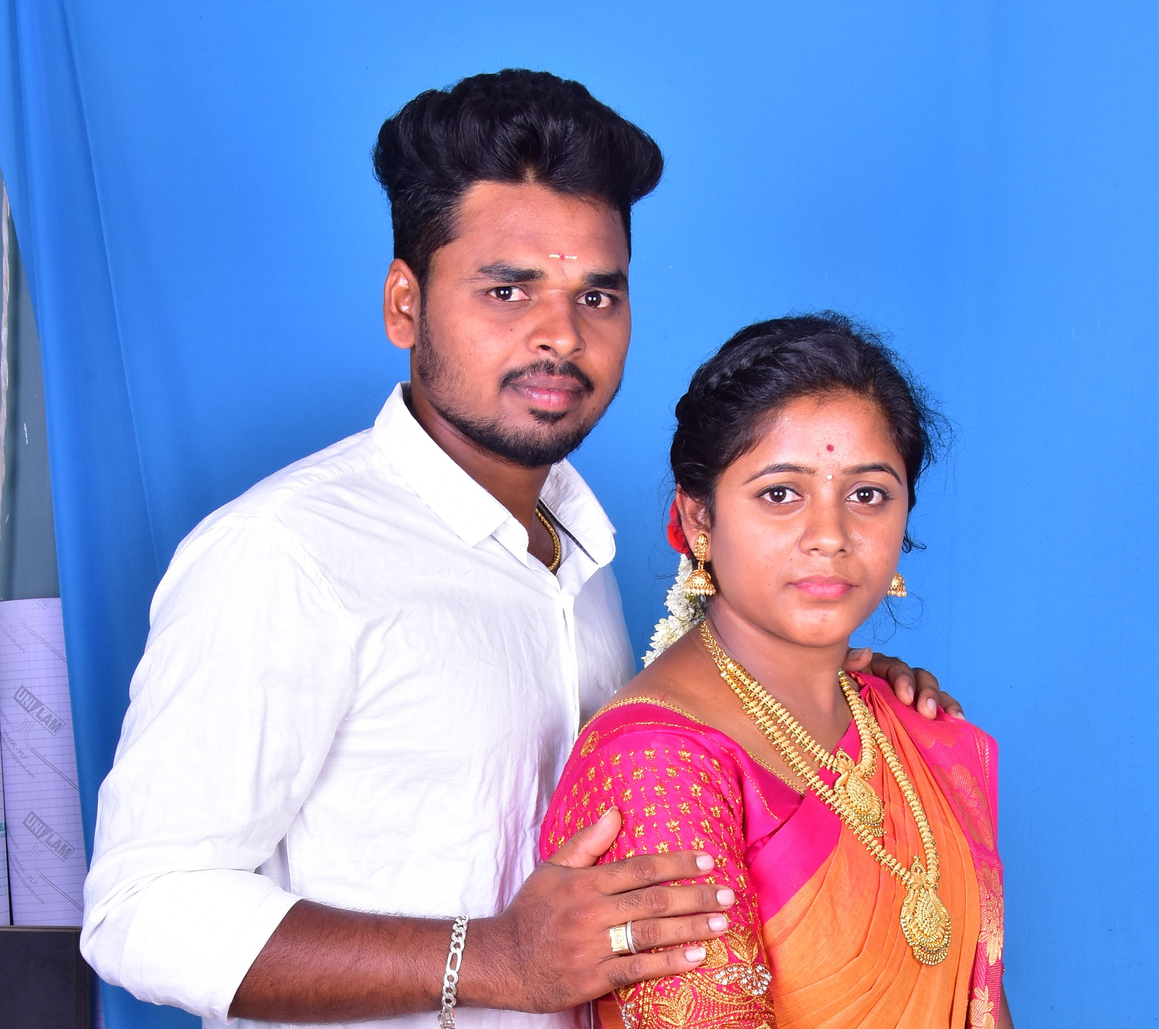
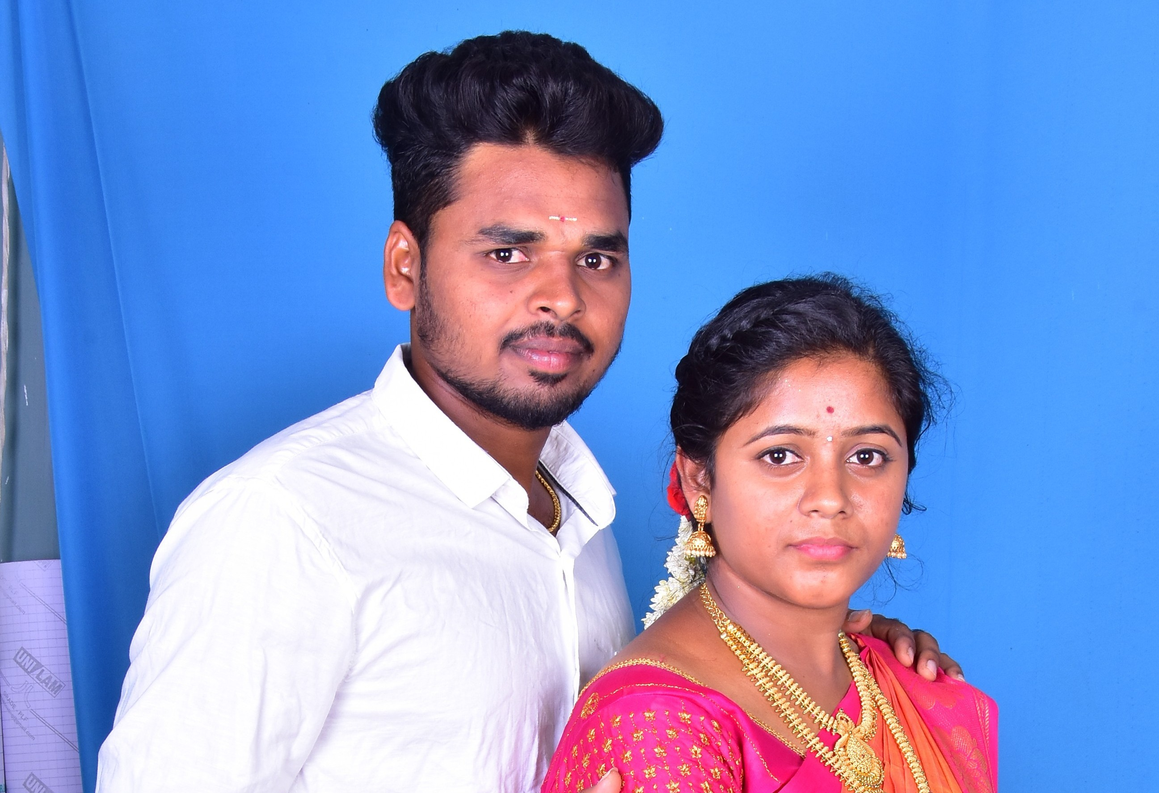
image changes

diff --git a/frontend/src/components/FamilyIntro.tsx b/frontend/src/components/FamilyIntro.tsx
@@ -9,14 +9,20 @@ const textVariants = {
   }),
 };
 
-const photoList = [
+const photoList1 = [
   "/assets/family/family11.jpg",
   "/assets/group/group1.jpg",
-  "/assets/couple/bride6.jpg",
-  "/assets/group/group2.jpg",
+  "/assets/family/family1.jpg",
+  "/assets/couple/bride5.jpg",
   "/assets/couple/groom1.jpg",
-  "/assets/group/group3.jpg",
+];
+
+const photoList2 = [
+  "/assets/group/group2.jpg",
   "/assets/couple/bride3.jpg",
+  "/assets/group/group3.jpg",
+  "/assets/family/family11.jpg",
+  "/assets/family/family15.jpg",
 ];
 
 const FamilyIntro = () => {
@@ -87,7 +93,7 @@ const FamilyIntro = () => {
           viewport={{ once: true }}
         >
           <img
-            src="/assets/couple/groom1.jpg"
+            src="/assets/couple/groom7.jpg"
             alt="Groom"
             className="w-28 h-28 mx-auto rounded-full object-cover border-4 border-white shadow-lg mb-4"
           />
@@ -129,7 +135,7 @@ const FamilyIntro = () => {
           viewport={{ once: true }}
         >
           <img
-            src="/assets/couple/bride3.jpg"
+            src="/assets/couple/bride5.jpg"
             alt="Bride"
             className="w-28 h-28 mx-auto rounded-full object-cover border-4 border-white shadow-lg mb-4"
           />
@@ -185,7 +191,7 @@ const FamilyIntro = () => {
             animate={{ x: ["-50%", "0%"] }}
             transition={{ duration: 40, repeat: Infinity, ease: "linear" }}
           >
-            {[...photoList, ...photoList].map((src, i) => (
+            {[...photoList1, ...photoList1].map((src, i) => (
               <img
                 key={`row1-${i}`}
                 src={src}
@@ -202,7 +208,7 @@ const FamilyIntro = () => {
             animate={{ x: ["0%", "-50%"] }}
             transition={{ duration: 45, repeat: Infinity, ease: "linear" }}
           >
-            {[...photoList, ...photoList].map((src, i) => (
+            {[...photoList2, ...photoList2].map((src, i) => (
               <img
                 key={`row2-${i}`}
                 src={src}

diff --git a/frontend/src/components/GallerySection.tsx b/frontend/src/components/GallerySection.tsx
@@ -2,35 +2,39 @@ import { motion } from "framer-motion";
 
 const photoList1 = [
   "/assets/family/family1.jpg",
-  "/assets/family/family3.jpg",
-  "/assets/couple/couple1.jpg",
   "/assets/couple/bride1.jpg",
-  "/assets/family/family5.jpg",
-  "/assets/family/family13.jpg",
+  "/assets/family/family4.jpg",
   "/assets/couple/couple2.jpg",
+  "/assets/family/family7.jpg",
   "/assets/couple/groom1.jpg",
+  "/assets/family/family10.jpg",
+  "/assets/couple/bride6.jpg",
+  "/assets/family/family13.jpg",
+  "/assets/couple/bride7.jpg",
 ];
 
 const photoList2 = [
-  "/assets/family/family13.jpg",
   "/assets/family/family2.jpg",
+  "/assets/couple/bride2.jpg",
+  "/assets/family/family5.jpg",
   "/assets/couple/couple3.jpg",
-  "/assets/couple/bride3.jpg",
-  "/assets/family/family9.jpg",
-  "/assets/family/family14.jpg",
-  "/assets/couple/couple4.jpg",
-  "/assets/couple/groom4.jpg",
+  "/assets/family/family8.jpg",
+  "/assets/couple/groom3.jpg",
+  "/assets/family/family11.jpg",
+  "/assets/couple/groom7.jpg",
+  "/assets/family/family12.jpg",
 ];
 
 const photoList3 = [
-  "/assets/family/family4.jpg",
+  "/assets/family/family3.jpg",
+  "/assets/couple/bride3.jpg",
   "/assets/family/family6.jpg",
-  "/assets/couple/couple5.jpg",
-  "/assets/couple/bride7.jpg",
-  "/assets/family/family8.jpg",
-  "/assets/family/family10.jpg",
-  "/assets/couple/couple6.jpg",
-  "/assets/couple/groom3.jpg",
+  "/assets/couple/couple4.jpg",
+  "/assets/family/family9.jpg",
+  "/assets/couple/groom4.jpg",
+  "/assets/family/family12.jpg",
+  "/assets/couple/bride11.jpg",
+  "/assets/family/family14.jpg",
 ];
 
 const textVariants = {

diff --git a/frontend/src/components/ImageCarousel.tsx b/frontend/src/components/ImageCarousel.tsx
@@ -2,9 +2,10 @@ import { useEffect, useRef, useState } from "react";
 import { motion, AnimatePresence, useInView } from "framer-motion";
 
 const images = [
-  "/assets/couple/bride6.jpg",
-  "/assets/couple/groom1.jpg",
   "/assets/couple/bride3.jpg",
+  "/assets/couple/groom1.jpg",
+  "/assets/couple/couple7.jpg",
+  "/assets/couple/bride11.jpg",
 ];
 
 const ImageCarousel = () => {
